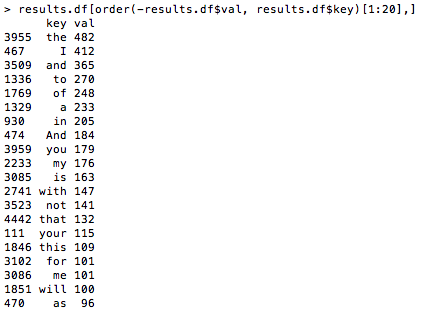
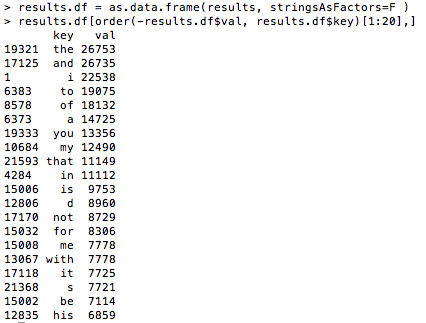
update

Changed region(s): [[0.0, 0.0, 0.9765, 1.0]]

diff --git a/_posts/2015-11-03-RHadoop.md b/_posts/2015-11-03-RHadoop.md
@@ -104,14 +104,17 @@ hdfs.init()
 hdfs.mkdir("/user/shakespeare/wordcount/data")
 hdfs.put("/home/hadoop/data/shakespeare.txt", "/user/shakespeare/wordcount/data")
 
-
-map = function(., lines) { 
-	keyval(
-	unlist(
-  strsplit(
-	x = lines,
-  split = " +")),
-1)}
+map = function(k, v) {
+          words <- unlist(strsplit(v, split = "[[:space:][:punct:]]"))
+          words <- tolower(words)
+          words <- gsub("[0-9]", "", words)
+          words <- words[words != ""]
+          wordcount <- table(words)
+          keyval(
+              key = names(wordcount),
+              val = as.numeric(wordcount)
+            )
+    }
 
 reduce = function(word, counts) { 
 	keyval(word, sum(counts))
